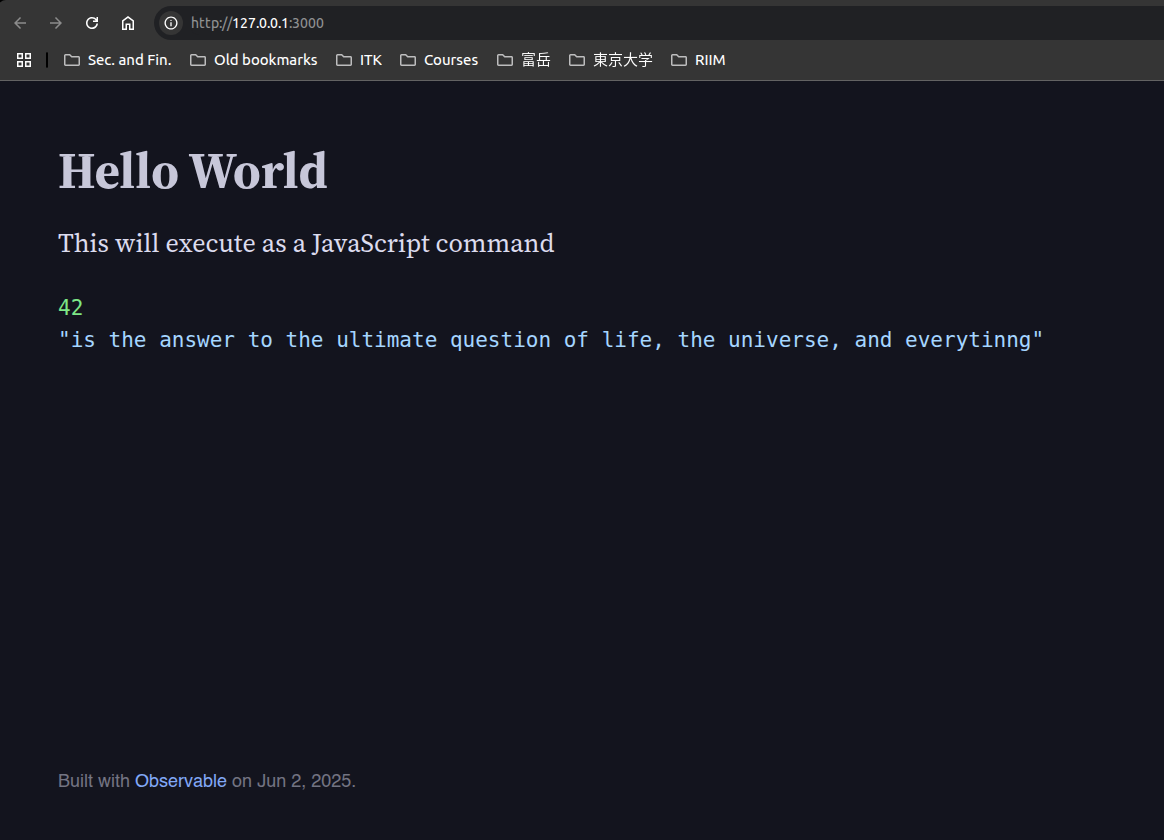
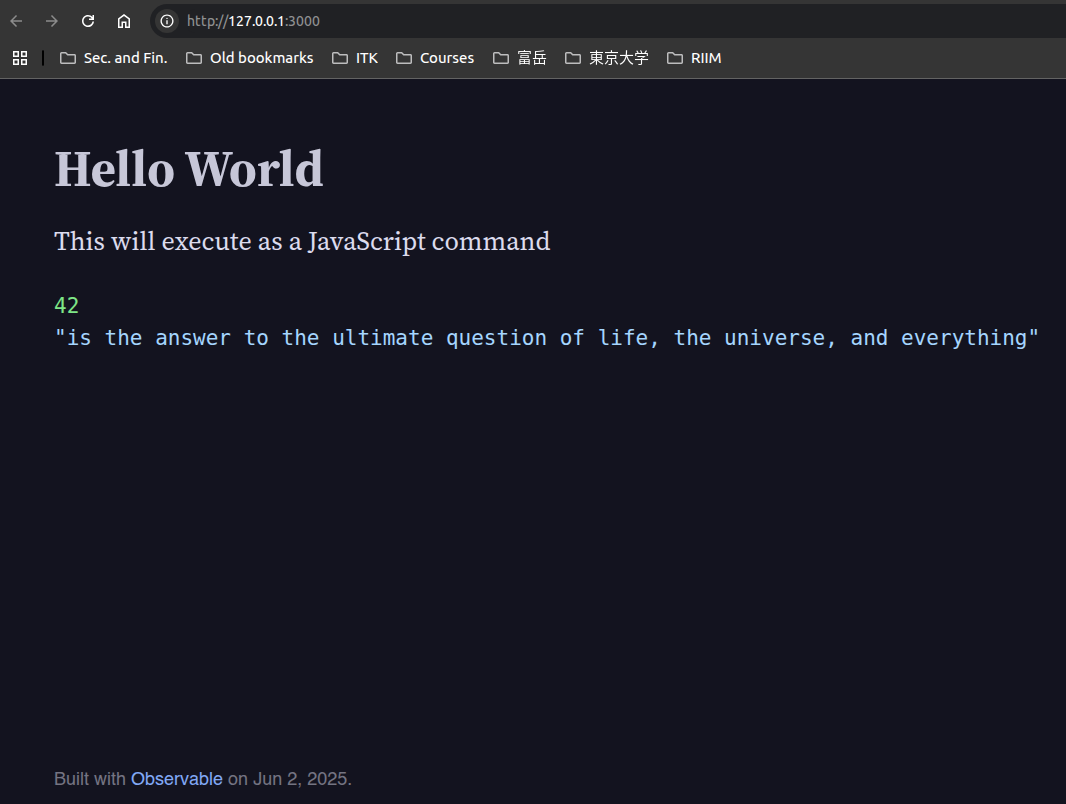
week-15 fast-intro-grafana

diff --git a/in-class/week-15/get-grafana-release-date.js b/in-class/week-15/get-grafana-release-date.js
@@ -1,0 +1,80 @@
+import HTMLParser from "node-html-parser"
+
+
+function getVersionAndDate(htmlBody, releaseVersionAndDate) {
+  const root = HTMLParser.parse(htmlBody);
+  // console.log(root);
+
+  let linkPrimaryLinkClassAttr = "Link--primary Link";
+  linkPrimaryLinkClassAttr = "." + (linkPrimaryLinkClassAttr.replaceAll(" ", "."));
+  let releaseVersion = root.querySelectorAll(linkPrimaryLinkClassAttr);
+  // console.log(releaseVersion.length);
+  releaseVersion = releaseVersion.map(
+    elem => elem.childNodes[0]["_rawText"])
+  // console.log(releaseVersion[0].childNodes[0]["_rawText"])
+  console.log(releaseVersion);
+
+  let sectionTagName = "section"
+  let sectionElem = root.getElementsByTagName(sectionTagName);
+  let relativeTimeTagName = "relative-time";
+  let releaseDate = sectionElem.map(
+    elem => elem.getElementsByTagName(relativeTimeTagName));
+  // console.log(releaseDate.length);
+  // console.log(releaseDate[0][0])
+  releaseDate = releaseDate.map(
+    elem => elem[0]["_attrs"]["datetime"])
+  releaseDate = releaseDate.map(
+    elem => (new Date(elem).toUTCString()))
+  console.log(releaseDate);
+
+  releaseVersionAndDate["date"].push(releaseDate);
+  releaseVersionAndDate["version"].push(releaseVersion);
+}
+
+function c1(response) {
+  console.log(response.status);
+  if (!response.ok) { return null; }
+
+  // console.log(response.headers.get("content-type"));
+  let p4 = response.text();
+  // console.log(p4);
+  return p4;
+}
+
+function c2(htmlBody) {
+  if (htmlBody) { getVersionAndDate(htmlBody); }
+  else {
+    // If we got a 404 error above and returned null, we end up here
+    console.log("The link is not correct.");
+  }
+}
+
+function c3(err) {
+  // console.log(err)
+  if (err instanceof TypeError) { console.log("getVersionAndDate() failed to parse"); }
+  else {
+    // This must be some kind of unanticipated error
+    console.log(err);
+  }
+}
+
+const repoName = "grafana/grafana";
+
+let githubReleasePage = `https://github.com/${repoName}/releases?`;
+let releaseVersionAndDate = {
+  "date": [],
+  "version": []
+}
+
+let pageCounter = 1;
+while (true) {
+  githubReleasePage = githubReleasePage + `page=${pageCounter}`;
+  let p1 = fetch(githubReleasePage)
+    .then(c1)
+    .then(htmlBody => c2(htmlBody, releaseVersionAndDate))
+    .catch(c3)
+  
+  pageCounter += 1;
+
+  if (pageCounter > 2) { break; }
+}

diff --git a/in-class/week-14/observablehq-framework-examples-hotel-bookings-start/src/index.md b/in-class/week-14/observablehq-framework-examples-hotel-bookings-start/src/index.md
@@ -9,5 +9,5 @@ This will execute as a JavaScript command
 
 ```js
 display(2 * 3 * 7) 
-display("is the answer to the ultimate question of life, the universe, and everytinng")
+display("is the answer to the ultimate question of life, the universe, and everything")
 ```
